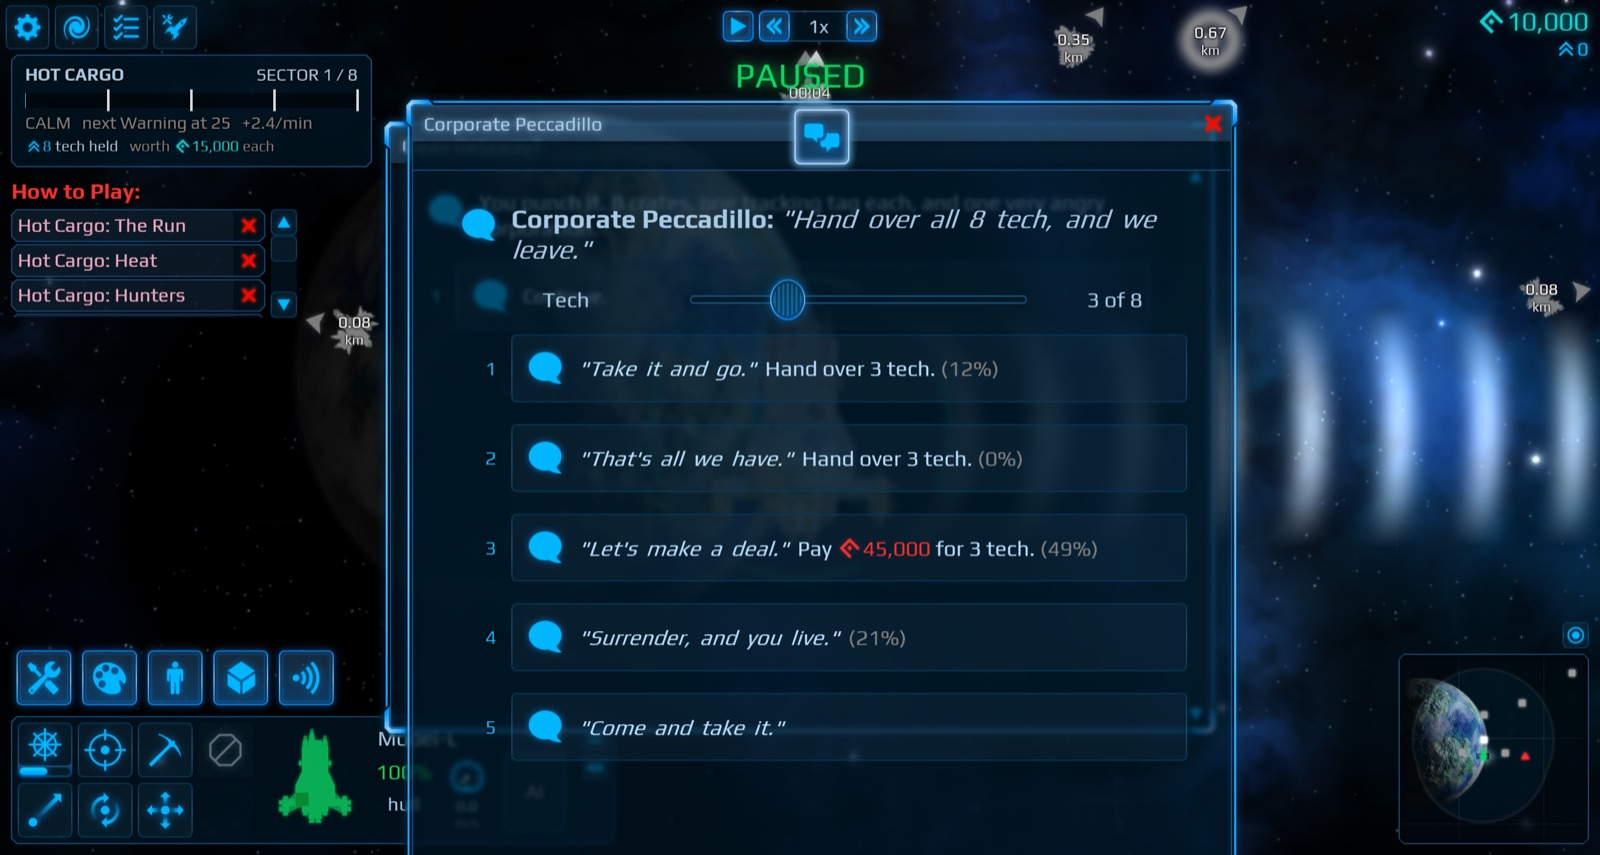
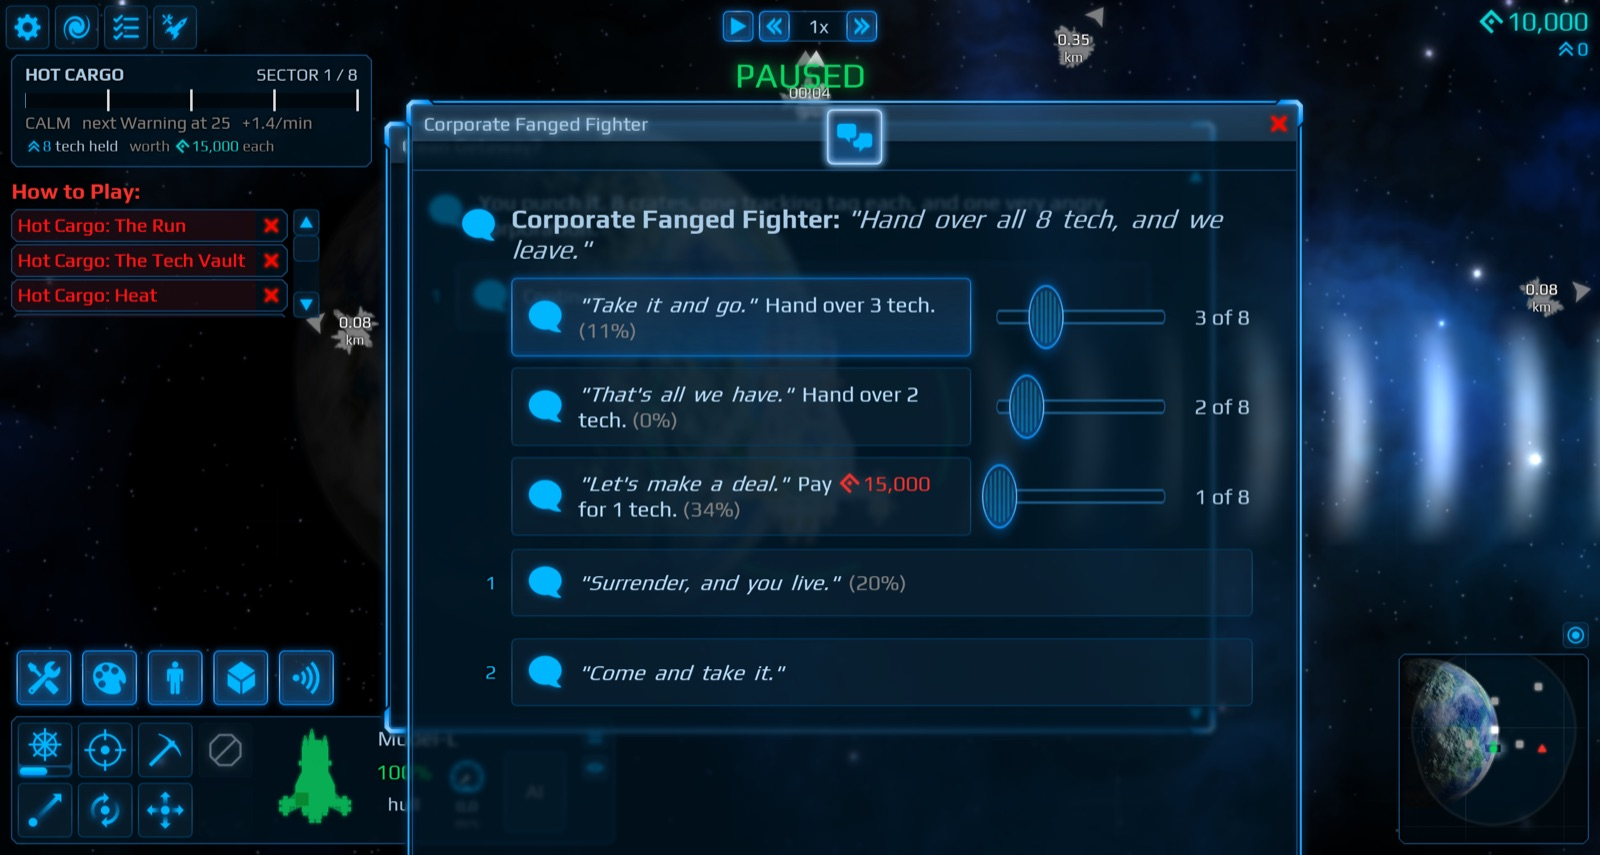
fix(diplomacy): option rows have a fixed height, the hail window grows with its rows; new dialog screenshots

diff --git a/src/HotCargo/Ui/OptionRows.cs b/src/HotCargo/Ui/OptionRows.cs
@@ -27,6 +27,7 @@ public sealed class OptionRows
     }
 
     readonly List<Row> _rows = [];
+    const float RowHeight = 72f;
 
     public LayoutBox Box { get; }
     public event Action<OptionRowView>? Clicked;
@@ -76,15 +77,14 @@ public sealed class OptionRows
 
     Row NewRow()
     {
-        var box = new LayoutBox { PercentileWidth = 100f };
+        // Fixed row height: two lines of option text fit. An auto height grew without limit when a row first showed before the
+        // window had its width (the text wrapped at width 0).
+        var box = new LayoutBox { PercentileWidth = 100f, Height = RowHeight };
         box.NineSlice.Flags = NineSliceFlags.None;
-        box.AutoSize.AutoHeightMode = AutoSizeMode.Enable;
         box.Children.LayoutAlgorithm = LayoutAlgorithms.StretchLeftToRight;
         box.Children.WidgetPadding = new Halfling.Geometry.Vector2(10f);
         var button = new ImageButton();
         button.CopySettingsFrom(WidgetRules.Instance.FlatButton);
-        button.AutoSize.AutoHeightMode = AutoSizeMode.Enable;
-        button.AutoSize.MinHeight = 56f;
         foreach (var t in new[] { button.StateNormalTextRenderer, button.StateHighlightedTextRenderer, button.StatePressedTextRenderer, button.StateDisabledTextRenderer })
         {
             t.XmlFormatting = true;
@@ -99,7 +99,6 @@ public sealed class OptionRows
         button.ImageRectController.InnerRectSize = button.ImageSprite.DesiredSize;
         var slider = new SliderRow(labelPercent: 0f) { };
         slider.Row.PercentileWidth = 38f;
-        slider.Row.Height = 56f;
         box.AddChild(button);
         box.AddChild(slider.Row);
         Box.AddChild(box);

diff --git a/src/HotCargo/Diplomacy/DiplomacyHail.cs b/src/HotCargo/Diplomacy/DiplomacyHail.cs
@@ -116,7 +116,9 @@ public sealed class DiplomacyHail : IHailProvider
         // One shared choice domain per page (CommsHail limit): a page that another provider owns (an event page) shows no diplomacy options.
         if (page.Shared is { } owner && owner.Domain != DiplomacyChoiceDomain.Name) return;
         page.Shared = (DiplomacyChoiceDomain.Name, DiplomacyChoiceDomain.Serial(callee));
-        if (S(run).Results.FirstOrDefault(r => r.Ship == callee.UniqueID) is { } result) page.AddText(result.Text);
+        // The punishment page leaves out the last result (the hand-over line is in the chat), so its rows fit the window.
+        bool punishPage = S(run).Punish is not null && Situation.IsHunter(callee) && caller.IsEnemiesWith(callee);
+        if (!punishPage && S(run).Results.FirstOrDefault(r => r.Ship == callee.UniqueID) is { } result) page.AddText(result.Text);
         if (caller.IsEnemiesWith(callee))
         {
             if (Situation.IsHunter(callee)) HunterPage(run, sim, player, caller, callee, page);

diff --git a/src/HotCargo/Ui/CommsHail.cs b/src/HotCargo/Ui/CommsHail.cs
@@ -222,7 +222,16 @@ public static class CommsHail
                 views.Add(new OptionRowView(r.Key, r.Text, r.Active, r.Tooltip, r.Toggle, r.Selected, r.Slider, value, SliderActive: !r.Toggle || r.Selected));
             }
         rows.Show(views);
+        // The tab does not scroll: the window grows with the rows and buttons of the page, up to MaxWindowHeight.
+        if (page is not null && tab._window is { } window)
+        {
+            float wanted = Math.Min(MaxWindowHeight, 260f + page.Rows.Count * 84f + page.Buttons.Count * 76f);
+            if (window.Size.Y < wanted) window.Size = new Halfling.Geometry.Vector2(window.Size.X, wanted);
+        }
     }
+
+    /// <summary>Tallest hail window. Limit: a page with more rows than fit runs off the bottom; revisit if a page needs more than about seven rows.</summary>
+    const float MaxWindowHeight = 880f;
 
     static HailRow? RowOf(CommDialogueTab tab, string key) => (tab._currentDialogue as HailPage)?.Rows.FirstOrDefault(r => r.Key == key);
 
